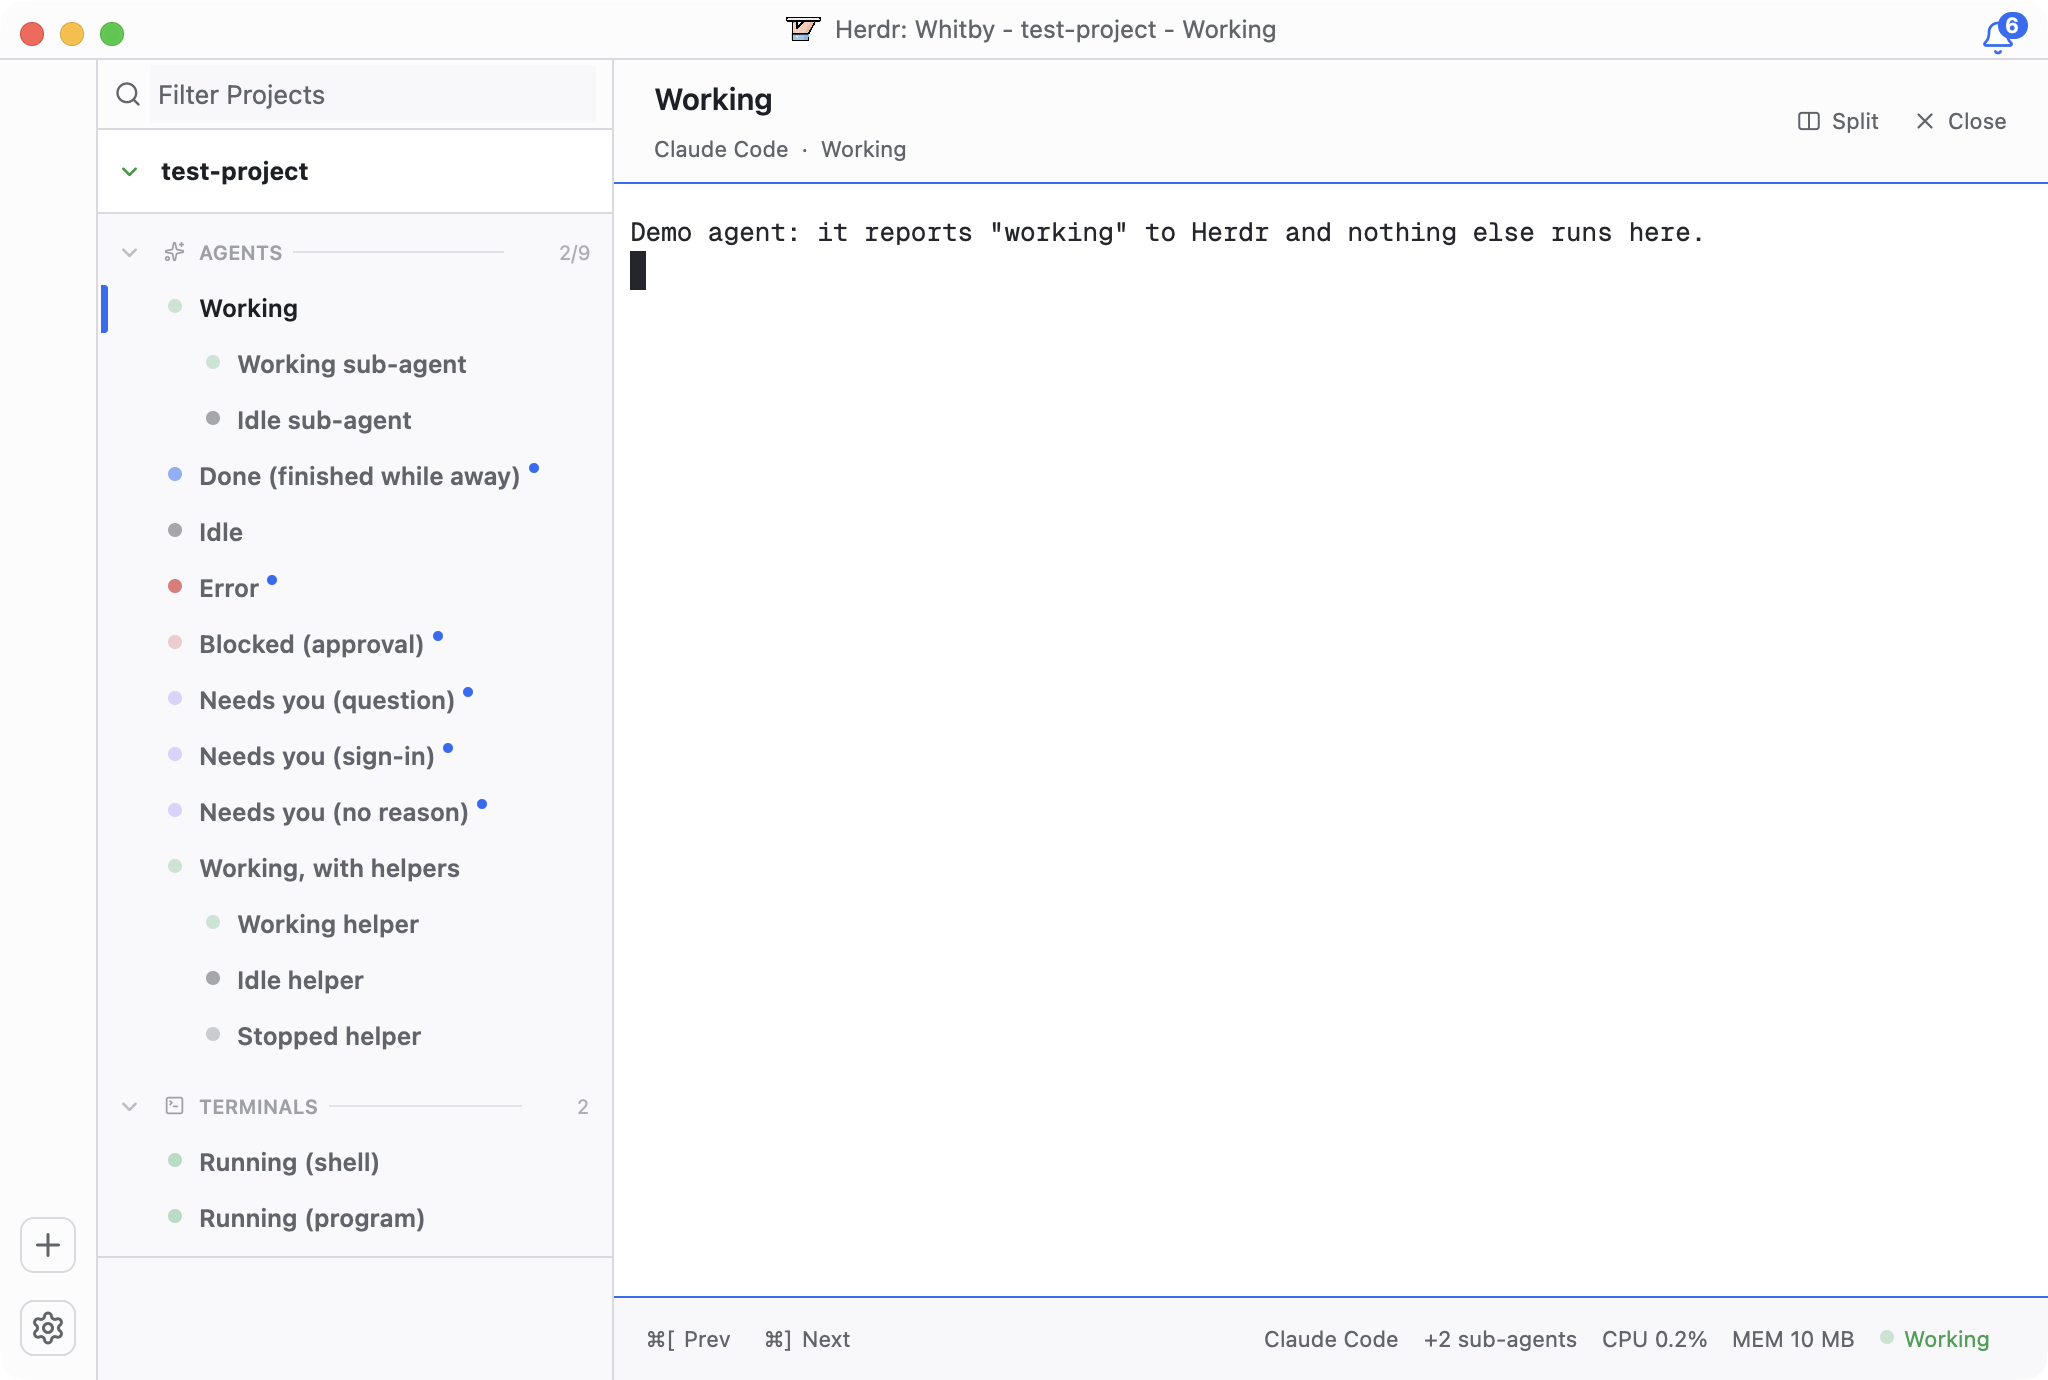
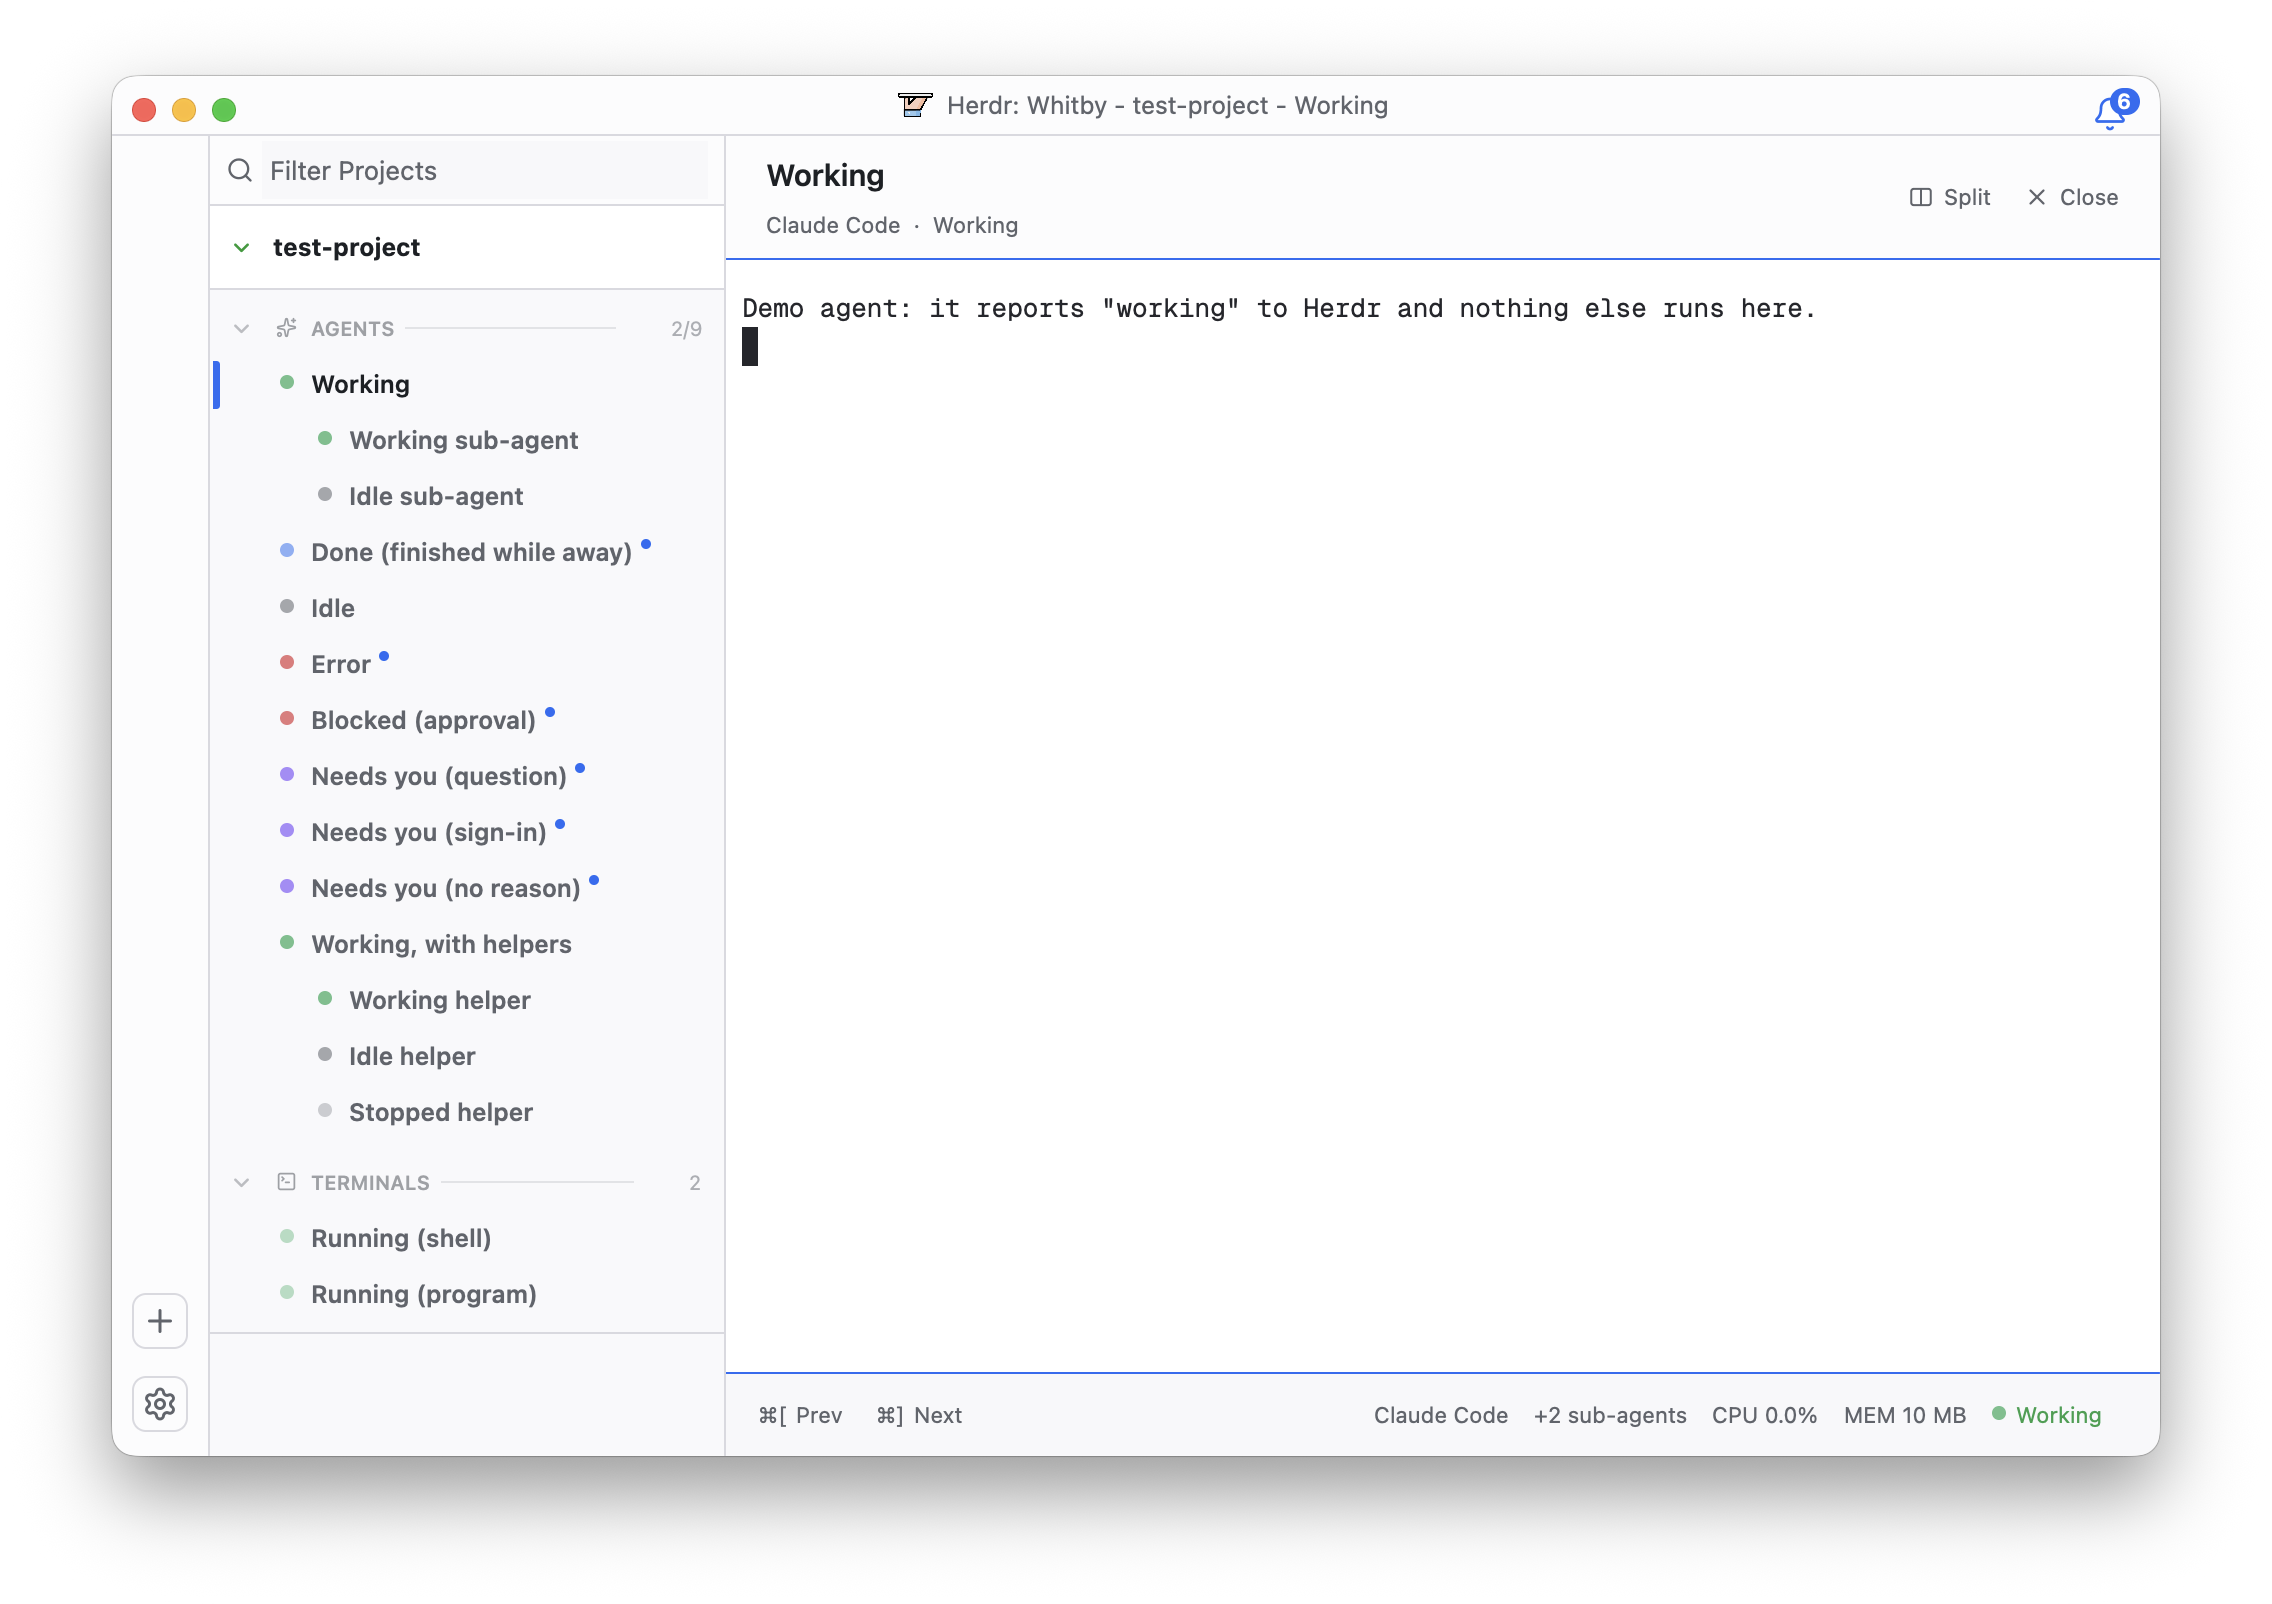
docs: show the window's edge and shadow in the preview
The preview was captured without the window shadow, which is where macOS
draws a window's outline, so its light edges vanished on a white page.

diff --git a/README.md b/README.md
@@ -1,7 +1,7 @@
 # Whitby for Herdr
 
 <p align="center">
-  <img src="preview.png" width="1024" alt="Whitby for Herdr: a project sidebar of agents in every state, the attention bell, and an agent's terminal with its header and footer">
+  <img src="preview.png" width="1136" alt="Whitby for Herdr: a project sidebar of agents in every state, the attention bell, and an agent's terminal with its header and footer">
 </p>
 
 A [Herdr](https://herdr.dev) layout that takes its inspiration from [Solo](https://soloterm.com): a
